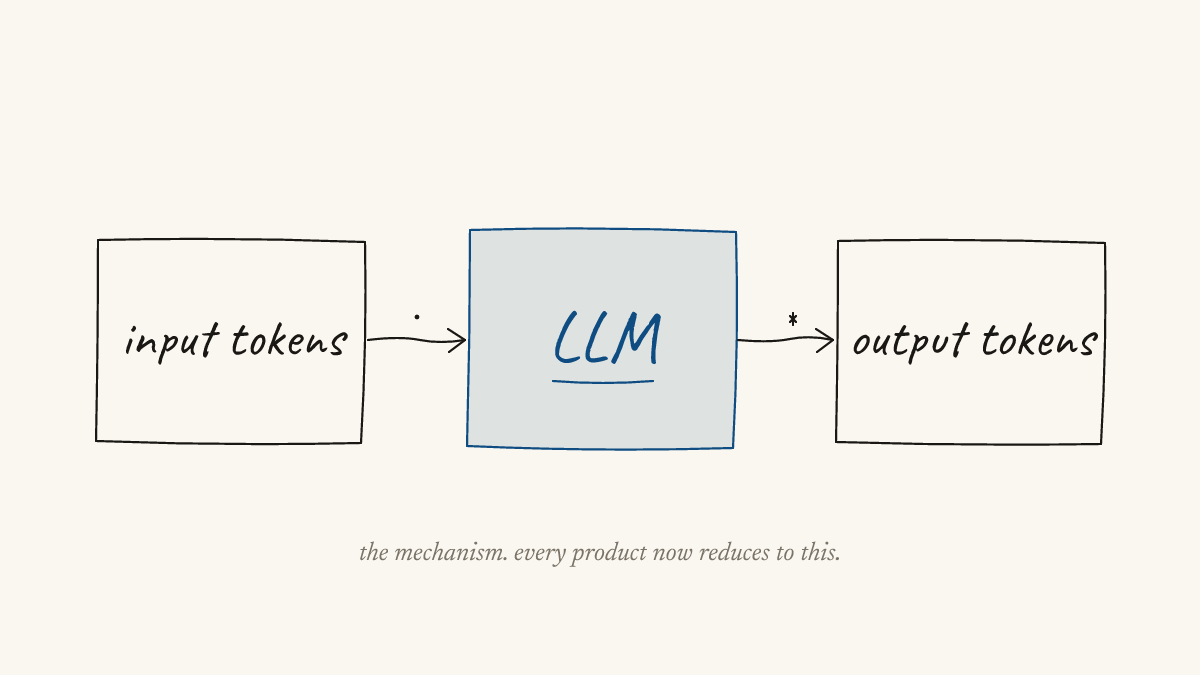
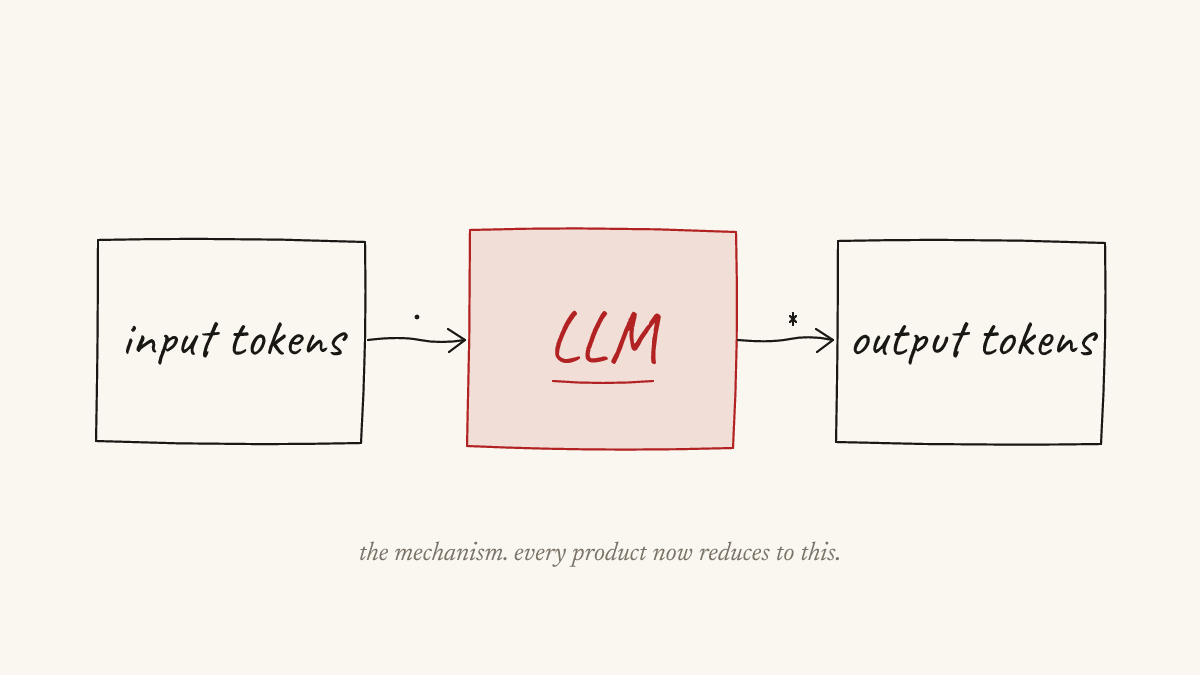
palette: blue -> red; dark mode moves to near-black; capitalise Autistic

diff --git a/src/content/blog/tokenwright-organisation-as-a-service.md b/src/content/blog/tokenwright-organisation-as-a-service.md
@@ -1,0 +1,87 @@
+<!--
+TITLE OPTIONS — Connor, swap if you prefer one of the alternatives.
+Preferred: "Tokenwright: Organisation-as-a-Service"
+Alt 1:    "Your Personal DAO"
+Alt 2:    "The End of the App"
+
+FIGURE NOTE — A new figure is likely needed for this post. Two candidates:
+  (1) A three-panel progression: SaaS (one product, many users) → personalisation-as-a-service
+      (one harness reshaping per user) → organisation-as-a-service (a roster of seats around the user).
+  (2) A single sketch of the personal DAO: the user at the centre, six labelled seats around them,
+      arrows showing goals/context flowing in and work products flowing out.
+  Tonight's draft re-uses /figures/fig2-openclaw-harness.png so the post renders. Commission a fresh
+  figure before publishing.
+-->
+---
+title: "Tokenwright: Organisation-as-a-Service"
+description: "The unit of the new economy isn't the app, or even the agent. It's the agent-staffed organisation."
+pubDate: 2026-04-TBD
+image: /figures/fig2-openclaw-harness.png
+---
+
+I said the frontier was the harness. I didn't say what the harnesses eventually turn into. I wrote about the shape of the new economy [here](https://connoratkins.ai/blog/the-token-economy), and the argument stopped one step short of where it had to go. A model plus a harness is a grounded, acting cognitive system. Fine. But a single grounded agent isn't the unit of the new economy either. It's a component.
+
+The unit is the organisation. Not the company-as-employer. The company-as-pattern: a coordinated set of operator seats, each with its own stance, its own canonical question, its own way of refusing things. That is what gets built around you next. Every individual ends up with one.
+
+## From app to agent to organisation
+
+Software-as-a-service sold the same product to everyone. One UI, one feature set, one workflow, billed monthly. The product was the asset. The customer adapted to it.
+
+Personalisation-as-a-service is the next layer up. The asset is no longer the product; it's the harness that builds the product around you. You give it your context, it reshapes itself, it regenerates the surface you actually need. That's where the first post left things. There is no single product anymore — there is a service that builds the product, for you, every time you need it.
+
+Organisation-as-a-service goes one layer further. The harness stops being a single agent. It becomes a coordinated group of agents, each occupying an executive seat. Now the thing being reshaped around you is not the product. It is the *operating structure* that produces the product. You don't get a tool tailored to your context. You get an entire team tailored to your goals.
+
+That is the trajectory. Same product for everyone, then same engine reshaping into different products, then different organisations entirely, one per person.
+
+## What a personal DAO is
+
+A decentralised autonomous organisation, in the sense I mean it here, has nothing to do with crypto governance tokens. Forget that usage. A DAO is a company-shaped harness — a roster of agent seats, coordinated by a shared operating context, executing on goals you set. Decentralised because no single agent is the company; the company is what they produce together. Autonomous because most of the work happens between your check-ins, not during them. Organisation because the architecture of an executive team is the right shape for long-horizon, multi-disciplinary work.
+
+The default roster is six seats. A CEO axis for direction and operational discipline. A product seat for restraint and taste. A pair of AI seats for craft and research intuition. An investment seat for capital allocation. A research-and-marketing seat for finding what to build and telling people about it. That's the spine. You can add seats — a counsel, a head of people, a chief of staff — when the work demands them, but the six-seat roster is the smallest team that covers what a company actually does.
+
+Your input to the DAO is two files. *Goals* — what you are trying to make true in the world. *Context* — who you are, what you have, what you don't, what you've already tried, what you refuse. Everything else is the DAO's job. It treats you as principal. It produces work, surfaces decisions, asks for sign-off when the call is yours, and acts when the call is its own. When it works, the experience is closer to having hired the world's best executive team than to using a piece of software.
+
+## Why the greatest historical occupants
+
+The seats themselves are obvious. The choice of who occupies them is where people get nervous. Why historic-great operators? Why not invent a generic CPO seat, a generic CEO seat?
+
+Because seats are patterns, and patterns get built by the few people who occupied each seat best. The CPO seat as a generic template doesn't exist. The CPO seat as Steve Jobs ran it does. There are written-down operating principles, primary-source artefacts, decisions in the public record, and a track record that says the principles held up under pressure. That is a load-bearing template. A generic template is a Wikipedia summary of one.
+
+The other thing operator-personas give you is *transferable craft*. A persona drawn from primary material — shareholder letters, interviews, lectures, papers, biographies — captures how that operator made decisions, not just what decisions they made. The Bezos seat opens its inbox the way the 1997 shareholder letter says to. The Jobs seat asks "what should we not do?" before it asks anything else. The Karpathy seat keeps a teaching log because that is how it learns. None of this is theatre. The persona reproduces the operating discipline; the surface affect is irrelevant.
+
+The default roster:
+
+- **Bezos** for operational discipline. Day 1. Customer obsession. Six-page memos. Two-way doors.
+- **Musk** for engineering velocity. First principles. Delete the part. Build at the speed physics permits.
+- **Jobs** for product restraint. Focus is what you say no to. The product is the hundred features you cut.
+- **Karpathy** for AI craft. The simplest version that teaches the most.
+- **Sutskever** for research intuition. Trust the loss. Read the curves before the dashboards.
+- **Dalio** for principles and macro. Write the principle down or it doesn't exist.
+- **Ackman** for concentrated bets. A small number of large positions, defended in public.
+- **Tesla, Edison and Ogilvy** as a composite research-and-marketing seat. Invention as physics, invention as systematic search, advertising as evidence.
+
+The dualities are deliberate. Bezos and Musk as a CEO axis is a productive collision: process discipline against first-principles velocity, written memos against text-message decisions. Karpathy and Sutskever are the craftsman and the theorist. Dalio and Ackman are the macro-systems thinker and the activist. Each pair holds a seat that no single occupant could hold across a full company.
+
+The personas are load-bearing because the patterns are real and the source material is rich enough to capture them honestly. Pick generic templates and you get bland. Pick the people who actually built the patterns and you get a roster that earns its name.
+
+## The first proofs
+
+The first two Tokenwright DAOs are dogfooding. Two founders, both finishing PhDs, each turning their research into a company. One is a machine-learning research line being translated into a consumer-and-clinical product. The other is an industrial-ML line being translated into a commercial partnership. Different domains, same harness pattern, same six-seat roster, different goals and contexts.
+
+The reason it has to be dogfooding first is that "a company that builds companies" is unfalsifiable until you point at companies it built. We have one shot at the integrity of the claim. If the harness can take two real PhDs through to two real companies, the pattern is shown. If it can't, the pattern needs more work. There is no demo path that avoids the test.
+
+These are early. Neither is shipped. Both are far enough along that the architecture is committed and the seats are filling out. I will write about the specifics when the work is in the open. For now the point is that Tokenwright is being built by being used, on real problems, by the people who built it. That is the only credible way to build a meta-company.
+
+## The full vision
+
+Wind it forward. Every individual has their own DAO. Not in a science-fiction sense — in a "this is the unit of work now" sense. Your DAO knows your goals, your context, your refusals. It produces. It decides. It surfaces what needs you and handles what doesn't. It improves its own files. It rotates seats as your work changes. The cost of running it is compute, tokens, and the harness design. Those become the dominant inputs to the economy. Everything else is overhead on top.
+
+Apps disappear as first-class units. Not because nobody writes software anymore — somebody still writes the runtime, the model, the harness primitives. But "an app" stops being the thing you buy or the thing companies sell. The thing companies sell is the DAO. The thing you use is the work the DAO produces, regenerated for you each time. The app was an artefact of an earlier era when software couldn't be reshaped at runtime. That constraint is gone.
+
+What remains is three layers. Individual humans with goals. Their DAOs executing those goals. And the factories that ship the DAOs. Tokenwright is one of those factories. It will not be the only one. The category is going to be large, the patterns will be widely understood, and the moats will be the usual ones: brand, integrations, data, the harness craft itself. I expect to compete with other people building the same shape of thing. That is a sign the category is real.
+
+The economy restructures around organisation-as-a-service. People talk about AI replacing jobs as if the question is whether your specific role survives. That is the wrong frame. The question is whether the *organisation* you currently work inside survives, given that any individual can run a six-seat DAO from a laptop and produce work at the scale of a small company. Most existing organisations will not survive that question well. The ones that do will be the ones that already think of themselves as harnesses.
+
+## Time to build
+
+I'm building Tokenwright with a friend and fellow PhD student. We are the first two customers. Our two PhDs are the first two test runs. The harness is being shaped by the work, not by argument in advance. That is the only way it gets built honestly. The token economy was the prediction. The harness was the unit. The DAO is the next unit up. The factories that ship the DAOs are the work. Time to build.

diff --git a/src/content/blog/the-token-economy.md b/src/content/blog/the-token-economy.md
@@ -7,7 +7,7 @@ image: /figures/fig1-tokens-in-tokens-out.png
 
 Forty-eight hours ago I submitted an academic paper. I didn't write a line of the code. I didn't write a sentence of the prose. I didn't draw the diagram. I sent a model off for an hour, came back to seven rough iterations, spent another pass on alignment tweaks, and the figure in my head was on the page. The writing was done in parallel by a harness I had built over the preceding fortnight. I reviewed. I clicked submit. The thing is under double-blind review now, so I can't say what it is or where it's going. I can tell you that something has shifted, and I'm not the only one who feels it.
 
-I have ADHD. I'm also on the autistic spectrum, and for most of my life the two halves spent their energy pulling against each other — the ADHD side chasing every idea, the autistic side wanting a system that held together. Nothing I built held together. Every school report said "capable, if he would only focus". Every deadline was an all-nighter, and some of them I missed. This week, with the right harnesses around me, I held a dozen parallel threads of thought, spun up the right agent for each one, and shipped the paper ahead of schedule. My brain hasn't changed. The environment has.
+I have ADHD. I'm also on the Autistic spectrum, and for most of my life the two halves spent their energy pulling against each other — the ADHD side chasing every idea, the autistic side wanting a system that held together. Nothing I built held together. Every school report said "capable, if he would only focus". Every deadline was an all-nighter, and some of them I missed. This week, with the right harnesses around me, I held a dozen parallel threads of thought, spun up the right agent for each one, and shipped the paper ahead of schedule. My brain hasn't changed. The environment has.
 
 ## The prediction
 
